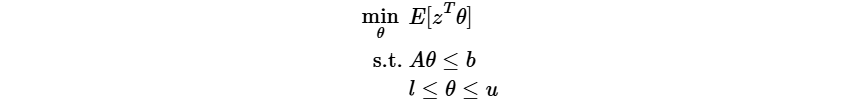
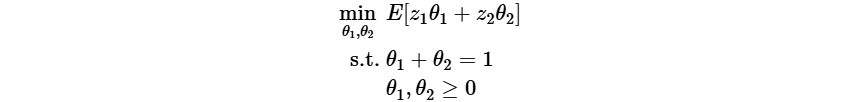
update

Changed region(s): [[0.393, 0.0, 0.6047, 0.39], [0.393, 0.48, 0.5744, 0.72], [0.4233, 0.78, 0.6047, 0.99]]

diff --git a/exampleLP.py b/exampleLP.py
@@ -1,31 +1,21 @@
 from VoteEnsemble import MoVE, ROVE, BaseLearner
 import numpy as np
 from numpy.typing import NDArray
-import cvxpy as cp
-import time
 
 
 
-# Linear program with stochastic objective
-# min E[\xi^T * x]
-# s.t. A * x <= b
-#      l <= x <= u
+# A simple linear program with stochastic objective
+# min E[\xi_1*x_1 + \xi_2*x_2]
+# s.t. x_1 + x_2 = 1
+#      x_1, x_2 >= 0
 
 class BaseLP(BaseLearner):
-    def __init__(self, A: NDArray, b: NDArray, lb: NDArray, ub: NDArray):
-        self._A: NDArray = np.asarray(A)
-        self._b: NDArray = np.asarray(b)
-        self._lb: NDArray = np.asarray(lb)
-        self._ub: NDArray = np.asarray(ub)
-    
     def learn(self, sample: NDArray) -> NDArray:
-        x = cp.Variable(len(self._lb))
-        prob = cp.Problem(cp.Minimize(np.mean(sample, axis = 0) @ x),
-                          [self._A @ x <= self._b, x >= self._lb, x <= self._ub])
-        prob.solve()
-
-        if prob.status == "optimal":
-            return x.value
+        xiMean = np.mean(sample, axis = 0)
+        if xiMean[0] < xiMean[1]:
+            return np.array([1.0, 0.0])
+        else:
+            return np.array([0.0, 1.0])
     
     @property
     def enableDeduplication(self):
@@ -45,28 +35,22 @@ class BaseLP(BaseLearner):
 if __name__ == "__main__":
     rngData = np.random.default_rng(seed = 888)
 
-    d = 10
-    lb = np.zeros(d)
-    ub = np.full(d, np.inf)
-    rngLP = np.random.default_rng(seed = 999)
-    A = rngLP.uniform(low=0, high=1, size=(5, d))
-    b = 10 * np.ones(5)
-    lp = BaseLP(A, b, lb, ub)
-
-    c = -rngLP.uniform(low=0, high=1, size=d)
+    c = [0.0, 0.2]
+    
+    lp = BaseLP()
     sample = rngData.normal(loc = c, size = (10000, len(c)))
     
     optimalVal = np.dot(c, lp.learn([c]))
     print(f"True optimal objective value = {optimalVal}")
 
-    moveLP = MoVE(lp, randomState = 666, numParallelLearn = 4)
+    moveLP = MoVE(lp, randomState = 666)
     output = moveLP.run(sample)
     print(f"{MoVE.__name__} outputs the solution: {output}, objective value = {np.dot(c, output)}")
 
-    roveLP = ROVE(lp, False, randomState = 666, numParallelLearn = 4)
+    roveLP = ROVE(lp, False, randomState = 666)
     output = roveLP.run(sample)
     print(f"{ROVE.__name__} outputs the solution: {output}, objective value = {np.dot(c, output)}")
 
-    rovesLP = ROVE(lp, True, randomState = 666, numParallelLearn = 4)
+    rovesLP = ROVE(lp, True, randomState = 666)
     output = rovesLP.run(sample)
     print(f"{ROVE.__name__}s outputs the solution: {output}, objective value = {np.dot(c, output)}")

diff --git a/exampleLR.py b/exampleLR.py
@@ -1,7 +1,6 @@
 from VoteEnsemble import ROVE, BaseLearner
 import numpy as np
 from numpy.typing import NDArray
-from sklearn.linear_model import LinearRegression
 import time
 
 
@@ -10,12 +9,14 @@ import time
 # min E[(y - x * \beta)^2]
 
 class BaseLR(BaseLearner):
-    def learn(self, sample: NDArray) -> LinearRegression:
+    def learn(self, sample: NDArray) -> NDArray:
         y = sample[:,0]
         X = sample[:,1:]
-        lr = LinearRegression(fit_intercept = False)
-        lr.fit(X, y)
-        return lr
+        gram = np.dot(X.T, X)
+        try:
+            return np.linalg.solve(gram, np.dot(X.T, y))
+        except:
+            return None
 
     @property
     def enableDeduplication(self):
@@ -24,8 +25,8 @@ class BaseLR(BaseLearner):
     def isDuplicate(self):
         pass
     
-    def objective(self, learningResult: LinearRegression, sample: NDArray) -> NDArray:
-        error = learningResult.predict(sample[:, 1:]) - sample[:, 0]
+    def objective(self, learningResult: NDArray, sample: NDArray) -> NDArray:
+        error = np.dot(sample[:, 1:], learningResult) - sample[:, 0]
         return error ** 2
 
     @property
@@ -36,12 +37,13 @@ class BaseLR(BaseLearner):
 if __name__ == "__main__":
     rngData = np.random.default_rng(seed = 888)
 
+    lr = BaseLR()
+    
     d = 10
     beta = np.linspace(0, 9, num = d)
     dataX = rngData.normal(size = (10000, d))
     dataY = (np.dot(dataX, beta) + rngData.normal(size = len(dataX))).reshape(-1, 1)
     sample = np.hstack((dataY, dataX))
-    lr = BaseLR()
 
     # skip MoVE as lr.enableDeduplication() == False
     
@@ -49,8 +51,8 @@ if __name__ == "__main__":
     
     roveLR = ROVE(lr, False, randomState = 666)
     output = roveLR.run(sample)
-    print(f"{ROVE.__name__} outputs the parameters: {output.coef_}")
+    print(f"{ROVE.__name__} outputs the parameters: {output}")
 
     rovesLR = ROVE(lr, True, randomState = 666)
     output = rovesLR.run(sample)
-    print(f"{ROVE.__name__}s outputs the parameters: {output.coef_}")
+    print(f"{ROVE.__name__}s outputs the parameters: {output}")

diff --git a/README.md b/README.md
@@ -30,7 +30,7 @@ $$ -->
 
 ![Equation](./images/LR.png)
 
-where $X$ is the input vector, $Y$ is the response variable, and $\theta$ is the model parameter vector. The script `exampleLR.py` implements such an example, where the method of least squares is the base learning algorithm, and applies $\mathsf{ROVE}$ and $\mathsf{ROVEs}$ to learn the model parameters. Try the example by running (`scikit-learn` required)
+where $X$ is the input vector, $Y$ is the response variable, and $\theta$ is the model parameter vector. The script `exampleLR.py` implements such an example, where the base learning algorithm is least squares, and applies $\mathsf{ROVE}$ and $\mathsf{ROVEs}$ to learn the model parameters. Try the example by running
 ```
 python exampleLR.py
 ```
@@ -45,33 +45,27 @@ ROVEs outputs the parameters: [-7.11339923e-03  1.00764019e+00  1.97278415e+00  
   8.01337643e+00  8.96901555e+00]
 ```
 ### Stochastic linear program
-Consider a linear program with stochastic coefficients in the form of
+Consider a simgle linear program with stochastic coefficients in the form of
 <!-- $$
 \begin{align*}
-\min_{\theta}\  &E[z^T\theta]\\
-\text{s.t.}\ &A\theta \leq b\\
-&l \leq \theta \leq u
+\min_{\theta_1,\theta_2}\  &E[z_1\theta_1+z_2\theta_2]\\
+\text{s.t.}\ &\theta_1+\theta_2=1\\
+& \theta_1,\theta_2\geq 0
 \end{align*}
 $$ -->
 
 ![Equation](./images/LP.png)
 
-where $z$ is the random coefficient vector, $A$ is the constraint matrix, $b$ is the right hand side, and $l,u$ are lower and upper bounds of the decison $\theta$. The script `exampleLP.py` implements such an example, where the sample average approximation is the base learning algorithm, and applies $\mathsf{MoVE}$, $\mathsf{ROVE}$, and $\mathsf{ROVEs}$ to obtain solution estimates. You can try the example by running (`cvxpy` required)
+where $z_1,z_2$ are random coefficients, and $\theta_1,\theta_2$ are decision variables. The script `exampleLP.py` implements such as example, where the base learning algorithm is the sample average approximation, and applies $\mathsf{MoVE}$, $\mathsf{ROVE}$, and $\mathsf{ROVEs}$ to obtain solution estimates. You can try the example by running
 ```
 python exampleLP.py
 ```
 which shall produce the result
 ```
-True optimal objective value = -15.349275441094298
-MoVE outputs the solution: [1.35655906e-09 9.94023566e+00 7.95126945e-10 2.57448639e+00
- 5.77780176e-08 1.25721531e-09 1.83272283e-08 1.46573859e-09
- 6.97747247e+00 5.22424867e-08], objective value = -15.294764680702862
-ROVE outputs the solution: [2.31131990e-10 1.13393702e-10 1.22780890e-10 9.48606929e+00
- 7.14193413e+00 3.15064932e-10 4.10652774e+00 1.76364405e+00
- 7.82081479e-10 2.73901352e-10], objective value = -15.174436790910121
-ROVEs outputs the solution: [7.31309987e-10 9.94023571e+00 3.63672223e-10 2.57448641e+00
- 1.00839088e-08 3.12572614e-10 1.24294896e-08 4.55585503e-09
- 6.97747247e+00 1.54772390e-09], objective value = -15.294764698873003
+True optimal objective value = 0.0
+MoVE outputs the solution: [1. 0.], objective value = 0.0
+ROVE outputs the solution: [1. 0.], objective value = 0.0
+ROVEs outputs the solution: [1. 0.], objective value = 0.0
 ```
 ## Advanced Tips
 ### Parallel Ensemble Construction and Evaluation
